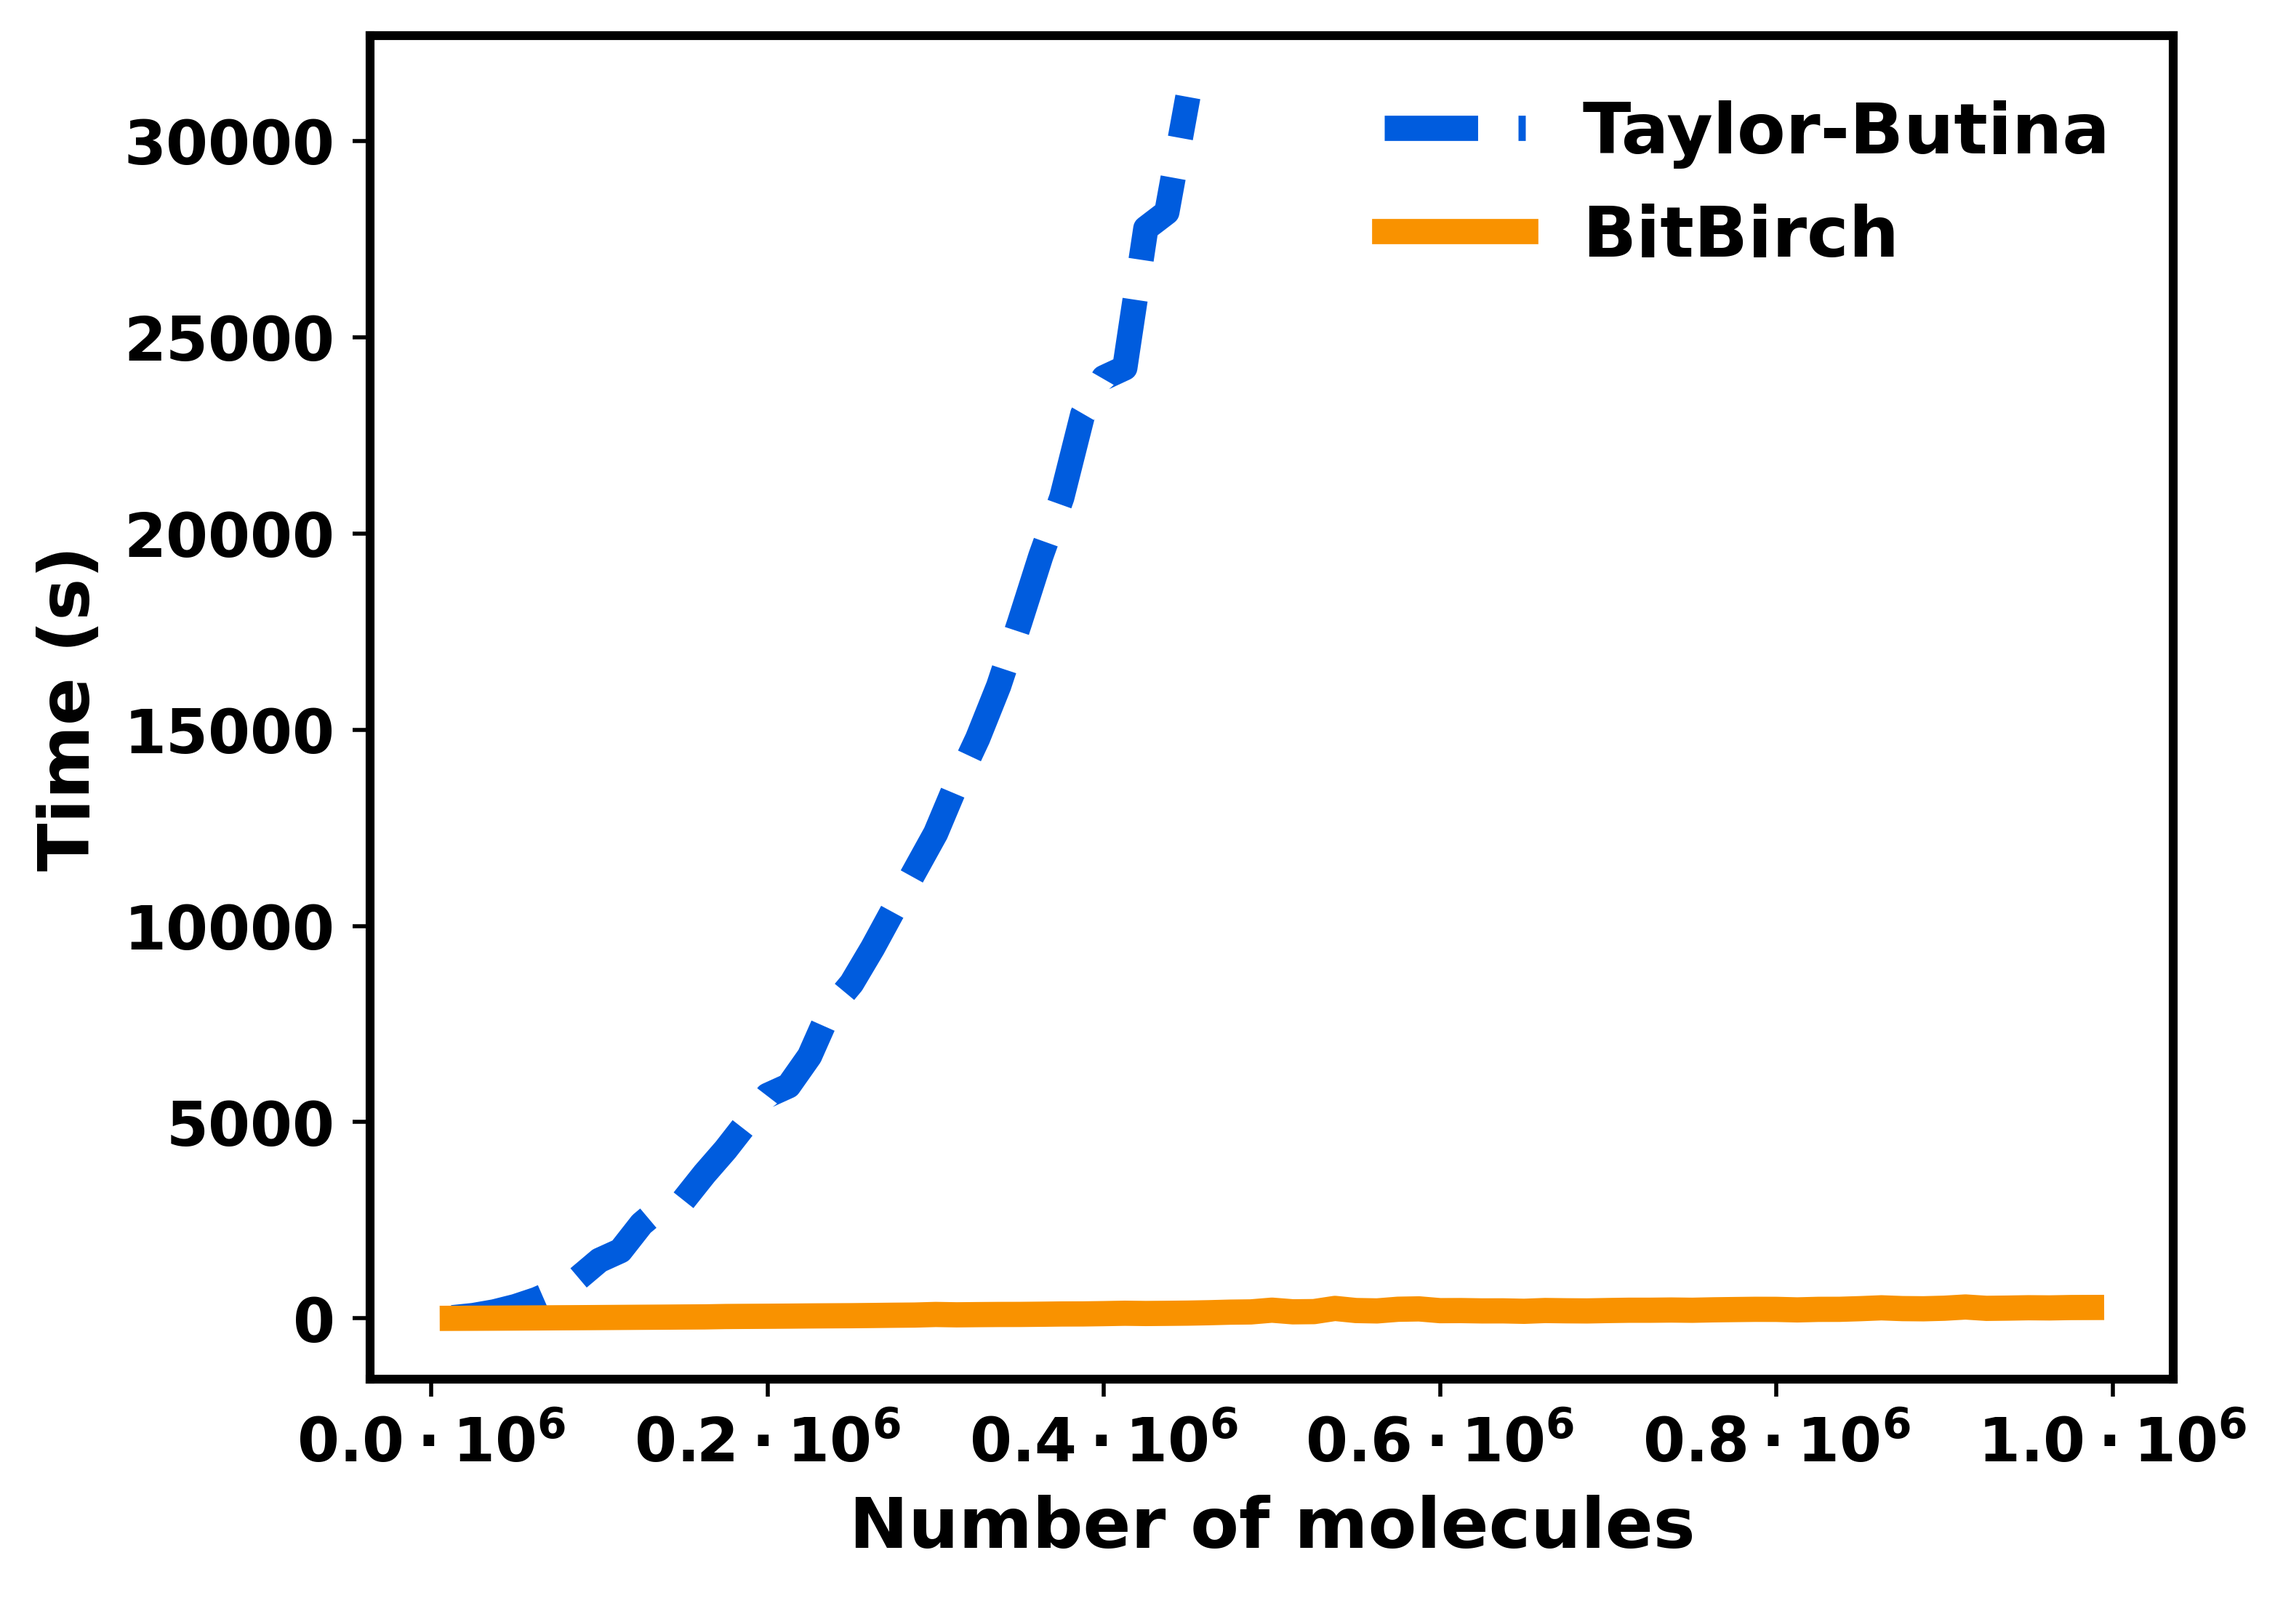
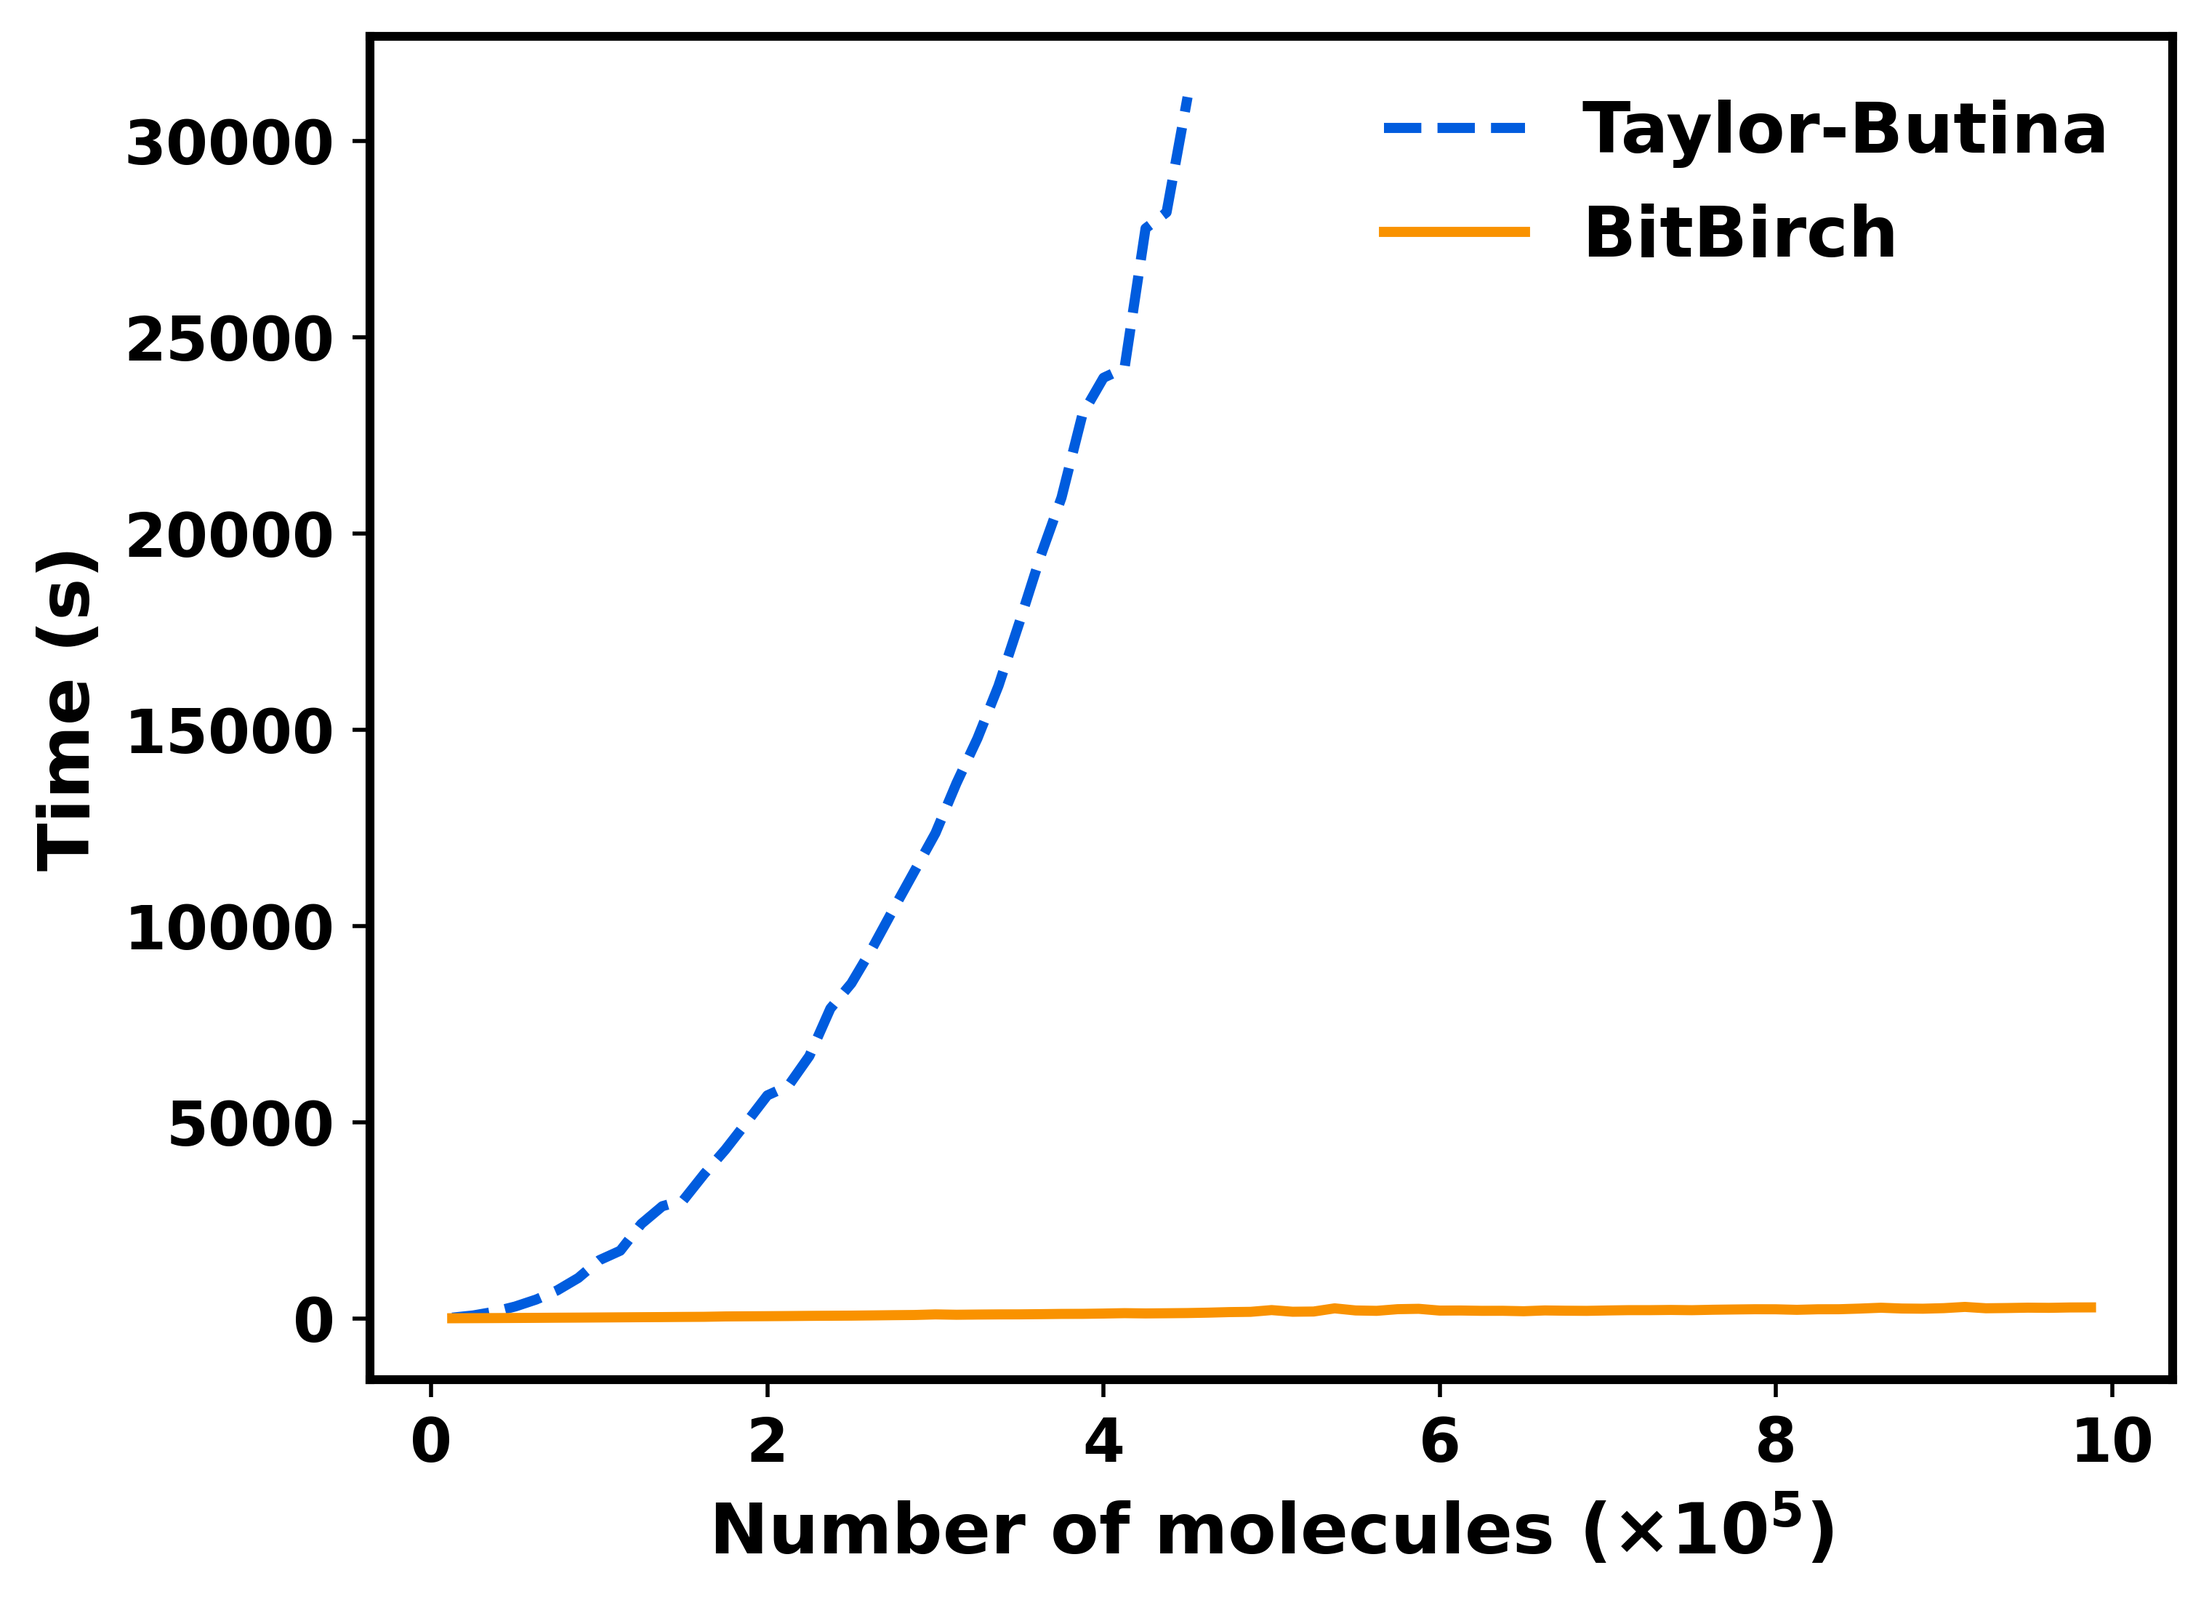
changed times format

Changed region(s): [[0.0, 0.0, 0.9898, 0.99], [0.3402, 0.0619, 0.5568, 0.6806], [0.2784, 0.6806, 0.3402, 0.7734]]

diff --git a/4-benchmark/times.py b/4-benchmark/times.py
@@ -4,17 +4,16 @@ from matplotlib.ticker import FuncFormatter
 
 # Custom formatter function
 def millions_formatter(x, pos):
-    val = f'${{{x * 1e-6:.1f}}} \\cdot 10^6$'
+    val = f'{x/1e5:.0f}'
     return val
 plt.rcParams.update({'font.size': 12, 'font.weight': 'bold'})
 brc_times = np.loadtxt('../../data/pubchem_birch_timing.csv', delimiter=',', skiprows=1, usecols=(0, 1))
 but_times = np.loadtxt('../../data/pubchem_but_time_1.csv', delimiter=',', skiprows=1, usecols=(0, 1))
 
-
-plt.plot(but_times[:, 0], but_times[:, 1], label='Taylor-Butina', linewidth=5, linestyle='--',
+plt.plot(but_times[:, 0], but_times[:, 1], label='Taylor-Butina', linewidth=2, linestyle='--',
          c='#005cde')
-plt.plot(brc_times[:, 0], brc_times[:, 1], label='BitBirch', linewidth=5, c='#f99200')
-plt.xlabel('Number of molecules', fontsize=14, fontweight='bold')
+plt.plot(brc_times[:, 0], brc_times[:, 1], label='BitBirch', linewidth=2, c='#f99200')
+plt.xlabel(f'Number of molecules ($\\times 10^5$)', fontsize=14, fontweight='bold')
 plt.ylabel('Time (s)', fontsize=14, fontweight='bold')
 # Apply the formatter
 plt.gca().xaxis.set_major_formatter(FuncFormatter(millions_formatter))
